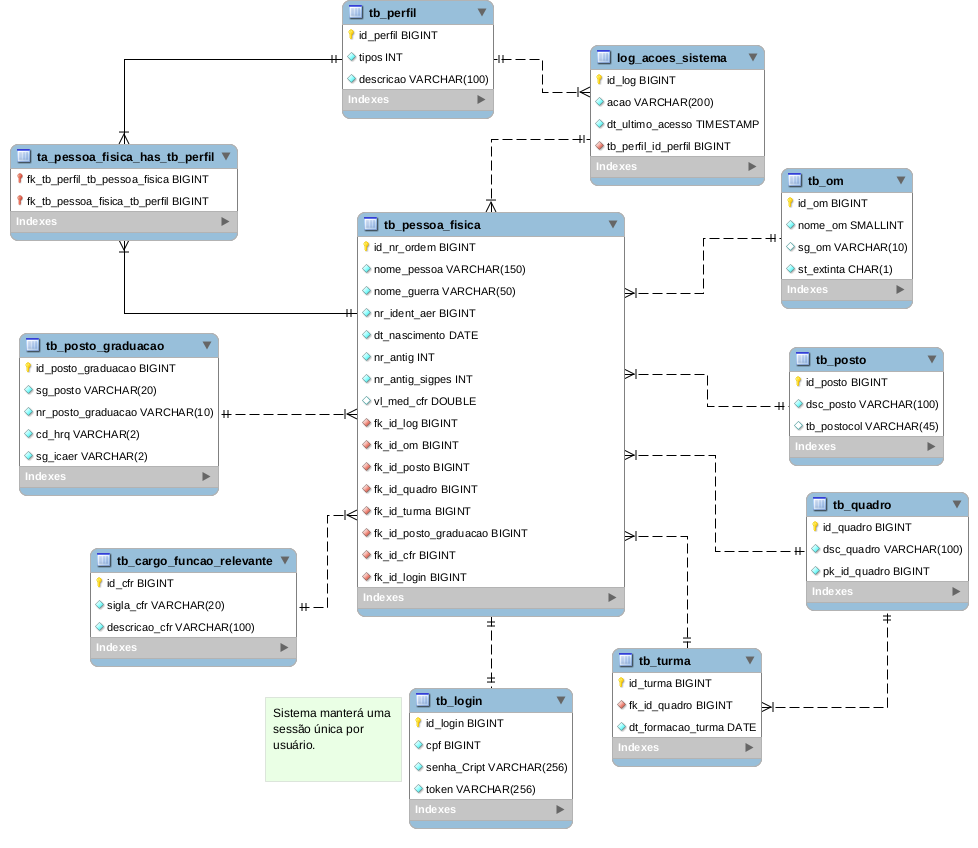
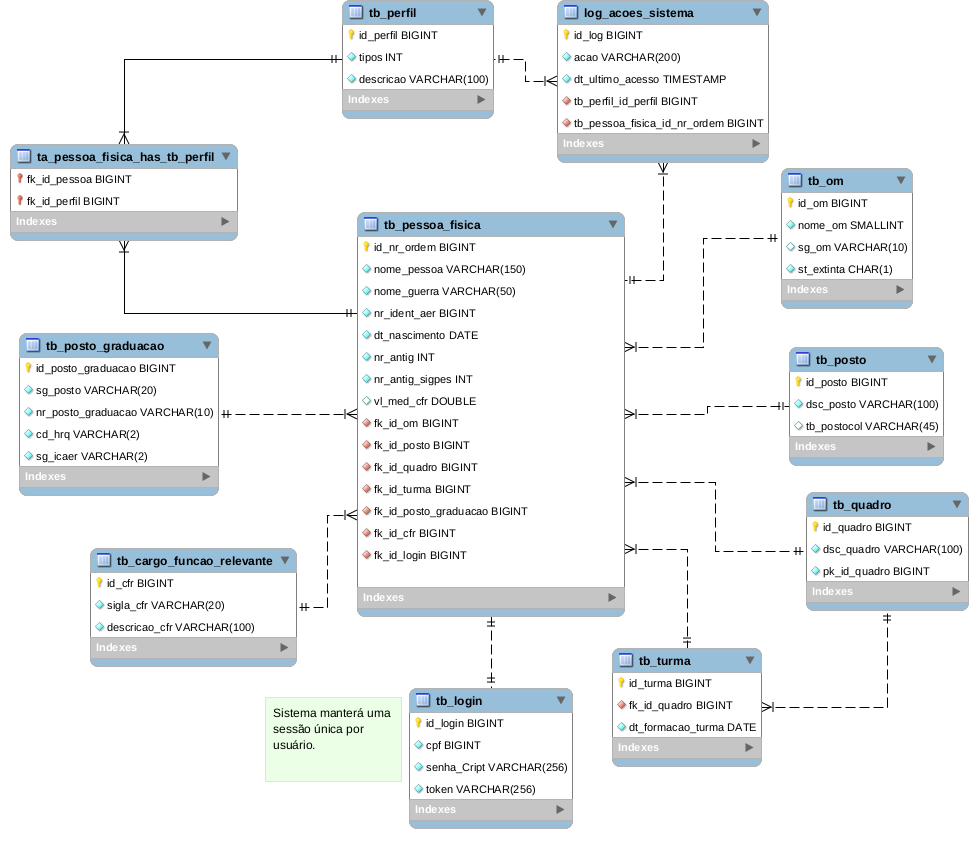
Criaçao migrate/Entiti ta ligaçao perfil pessoa ManyToMany.

Changed region(s): [[0.5521, 0.0, 0.7975, 0.2453], [0.3681, 0.4906, 0.5215, 0.7052], [0.0307, 0.184, 0.2147, 0.2453]]

diff --git a/src/entities/relations/relations.ts b/src/entities/relations/relations.ts
@@ -24,9 +24,6 @@ const Relations = (model) => {
     model.tb_cargo_funcao_relevante.hasMany(model.tb_pessoa_fisica,{foreignKey: 'fk_id_cfr'});
     model.tb_pessoa_fisica.belongsTo(model.tb_cargo_funcao_relevante, {foreignKey: 'id_cfr'});
     
-    model.tb_perfil.hasMany(model.tb_pessoa_fisica,{foreignKey: 'fk_id_perfil'});
-    model.tb_pessoa_fisica.belongsTo(model.tb_perfil, {foreignKey: 'id_perfil'});
-    
     model.tb_turma.hasMany(model.tb_pessoa_fisica,{foreignKey: 'fk_id_turma'});
     model.tb_pessoa_fisica.belongsTo(model.tb_turma, {foreignKey: 'id_turma'});
     
@@ -42,5 +39,19 @@ const Relations = (model) => {
 
     model.tb_perfil.hasMany(model.tb_log_acoes_sistema,{foreignKey: 'fk_id_perfil'});
     model.tb_log_acoes_sistema.belongsTo(model.tb_perfil, {foreignKey: 'id_perfil'});
+
+
+     /*RELAÇÃO ta_pessoa_fisica_has_tb_perfil
+         fk_id_pessoa
+         fk_id_perfil
+     */
+    model.tb_pessoa_fisica.hasMany(model.ta_pessoa_fisica_has_tb_perfil,{foreignKey: 'fk_id_pessoa'});
+    model.ta_pessoa_fisica_has_tb_perfil.belongsTo(model.tb_pessoa_fisica, {foreignKey: 'id_pessoa_fisica'});
+
+    model.tb_perfil.hasMany(model.ta_pessoa_fisica_has_tb_perfil,{foreignKey: 'fk_id_perfil'});
+    model.ta_pessoa_fisica_has_tb_perfil.belongsTo(model.tb_perfil, {foreignKey: 'id_perfil'});
+
+
+
 };
 module.exports = Relations;

diff --git a/src/config/database/migrations/011-create-ta-pessoa-fisica-has-tb-perfil.js b/src/config/database/migrations/011-create-ta-pessoa-fisica-has-tb-perfil.js
@@ -1,0 +1,30 @@
+'use strict';
+module.exports = {
+  up: (queryInterface, Sequelize) => {
+    return queryInterface.createTable('ta_pessoa_fisica_has_tb_perfils', {
+      fk_id_pessoa_fisica: {
+        type: Sequelize.BIGINT,
+        references: { model: 'tb_pessoa_fisica', key: 'id_pessoa_fisica' },
+        primaryKey: true,
+        allowNull: false
+      },
+      fk_id_perfil: {
+        references: { model: 'tb_perfil', key: 'id_perfil' },
+        type: Sequelize.BIGINT,
+        primaryKey: true,
+        allowNull: false
+      },
+      createdAt: {
+        allowNull: false,
+        type: Sequelize.DATE
+      },
+      updatedAt: {
+        allowNull: false,
+        type: Sequelize.DATE
+      }
+    });
+  },
+  down: (queryInterface, Sequelize) => {
+    return queryInterface.dropTable('ta_pessoa_fisica_has_tb_perfils');
+  }
+};

diff --git a/src/entities/has_pessoa_fisica_to_tb_perfil.ts b/src/entities/has_pessoa_fisica_to_tb_perfil.ts
@@ -1,0 +1,16 @@
+'use strict';
+export default function (sequelize, DataTypes) {
+  const PessoaFisicaHasPerfil = sequelize.define('ta_pessoa_fisica_has_tb_perfil', {
+    fk_id_pessoa_fisica: {
+      type:DataTypes.BIGINT,
+      primaryKey: true,
+      allowNull: false
+    },
+    fk_id_perfil: {
+      type:DataTypes.BIGINT,
+      primaryKey: true,
+      allowNull: false
+    }
+  });
+  return PessoaFisicaHasPerfil;
+};

diff --git a/src/config/database/migrations/009-create-pessoa-fisica.js b/src/config/database/migrations/009-create-pessoa-fisica.js
@@ -24,10 +24,6 @@ module.exports = {
         type: Sequelize.BIGINT,
         references: { model: 'tb_cargo_funcao_relevante', key: 'id_cfr' }
       },
-      fk_id_perfil: {
-        type: Sequelize.BIGINT,
-        references: { model: 'tb_perfil', key: 'id_perfil' }
-      },
       fk_id_turma: {
         type: Sequelize.BIGINT,
         references: { model: 'tb_turma', key: 'id_turma' }

diff --git a/src/entities/dto_pessoaFisica.ts b/src/entities/dto_pessoaFisica.ts
@@ -22,10 +22,6 @@ export default function (sequelize, DataTypes) {
         type:DataTypes.BIGINT,
         allowNull: false
       },
-      fk_id_perfil: {
-        type:DataTypes.BIGINT,
-        allowNull: false
-      },
       fk_id_turma: {
         type:DataTypes.BIGINT,
         allowNull: false
